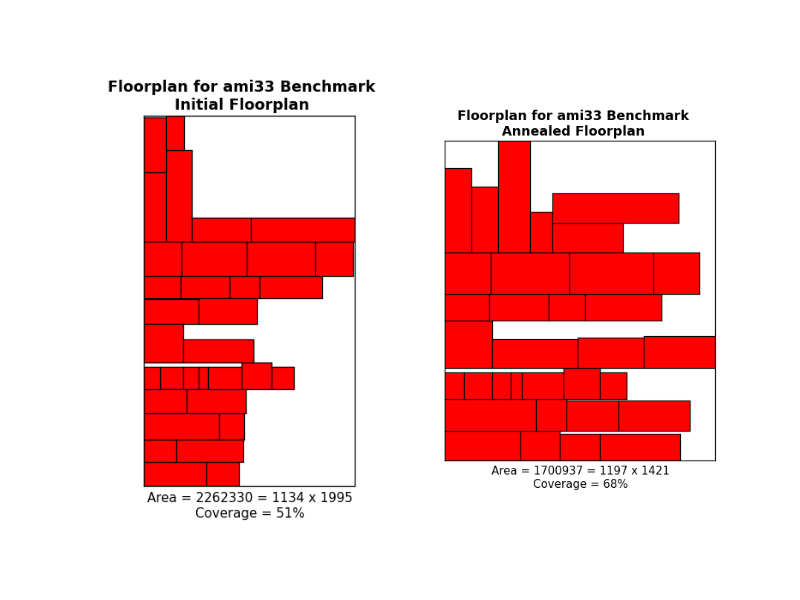
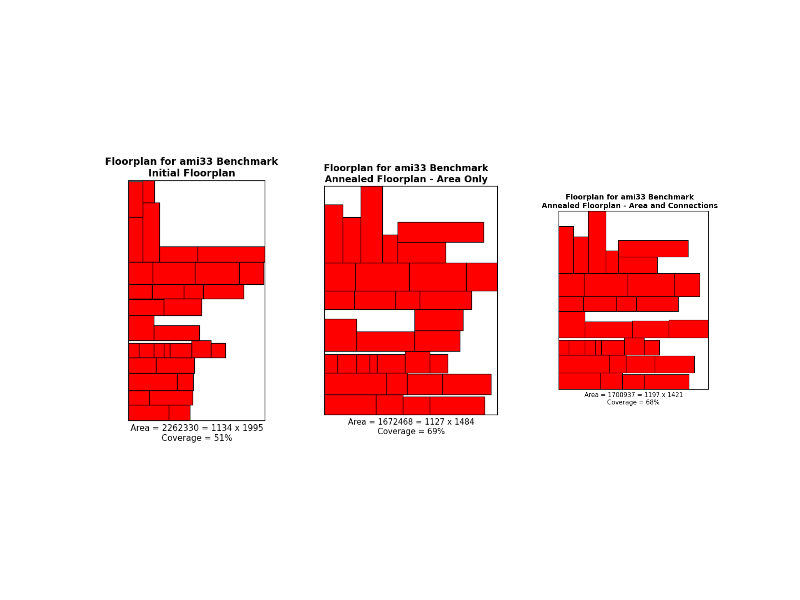
Final results for progress report.  Add white space data to nodes.

Changed region(s): [[0.125, 0.12, 0.9062, 0.87]]

diff --git a/metrics.py b/metrics.py
@@ -4,28 +4,25 @@ import utils
 
 
 # Finding midpoints of rectangles
-def findMid(rectangles):
+def findMid(rectangles,dictionary):
 	
-	t = 0
 	length = len(rectangles)
-	#c = len(rectangles)
 	
 	matrix_dist = np.zeros((length,length))
+
 	for r in range(length):
-		#print('\n')
+		indexI = dictionary[rectangles[r].name]
 		midx1 = rectangles[r].x + rectangles[r].w/2
 		midy1 = rectangles[r].y + rectangles[r].h/2
-		#print (midx1,midy1)
+
 		for c in range(length):
+			indexJ = dictionary[rectangles[c].name]
 			midx2 = rectangles[c].x + rectangles[c].w/2
 			midy2 = rectangles[c].y + rectangles[c].h/2
-			t+=1
-			#print(midx2,midy2)
-			matrix_dist[r][c] = abs(midx2 - midx1) + abs(midy2-midy1)	
-			#print (matrix_dist[r][c]),
-	#print('\n')
-	#print(t)
-	return (matrix_dist)
+
+			matrix_dist[indexI][indexJ] = abs(midx2 - midx1) + abs(midy2-midy1)	
+
+	return matrix_dist
 
 	
 	
@@ -89,34 +86,31 @@ def getAreaRectangle(rectangleName): # rectangle name to rectangle area, need to
 
 ################################################################################
 def costWithLamdas(rectangles, costParameters):
-	dist_matrix = (findMid(rectangles))
-	#print(dist_matrix)
-
 	sum_of_areas = (getCoverage(rectangles)) # sum of areas of individual rectangles
-	#print(sum_of_areas)
-	
 	total_area = (getAreaFloorplan(rectangles)) # total area of floorplan
-	#print(total_area)
 	
 	matrix = costParameters.lamda # connection matrix 
 	k = costParameters.k
 	alpha = costParameters.alpha
-	dist_matrix = (findMid(rectangles)) # wirelength matrix
-	leng = len(dist_matrix)
-	matrix_cost = np.zeros((leng,leng))
-	f = np.zeros((leng,leng))
-	cost_p2 = 0
-	
+	f = costParameters.f
+	dictionary = costParameters.dictionary
+	dist_matrix = (findMid(rectangles,dictionary)) # wirelength matrix
+
+
+	leng = len(rectangles)
+	cost_p2 = 0.0
+	matrix_cost = np.multiply(matrix,dist_matrix)
+
+	#print(dist_matrix)
+
 	for i in range(leng):
-		for j in range(leng):
+		for j in xrange(i+1,leng,1):  # Avoid duplicating costs
 			#f[i][j] = 1
-			matrix_cost[i][j]=(matrix[i][j]*dist_matrix[i][j])
-			cost_p2 += matrix_cost[i][j]
-	# Compute area based on new matrix
-	covered_area = (total_area - sum_of_areas)
-	whitespace = (sum_of_areas/total_area) *100
-	#print(whitespace)
-	cost = (alpha * total_area) *(1 - alpha)* cost_p2
+			#matrix_cost[i,j]=matrix[i,j]*dist_matrix[i,j]*1.0
+			cost_p2 += (matrix_cost[i,j]) ** k
+
+	# Compute cost based on new matrix
+	cost = (alpha * total_area) + (1 - alpha)* cost_p2
 	return cost
 ################################################################################
 	

diff --git a/progressReportUpdate.py b/progressReportUpdate.py
@@ -5,30 +5,33 @@ import alignImages
 import classes
 import utils
 import numpy as np
+from copy import copy, deepcopy
 
 annealingParameters = classes.AnnealingParameters(100,.85,5,.05,1,1)
 
 
 def analyzeAllBenchmarks():
 	for dataset in utils.benchmarks:
-		(root, rectangles, dictionary, matrix) = initializeMatchPairs(dataset)
+		# Initial Floorplan
+		(root, rectangles, dictionary, matrix) = initializeMatchPairs(dataset) 
 
+		# Anneal - Consider area only
+		anneal(dataset, annealingParameters,metrics.costArea,"Output/annealing_",'Annealed Floorplan - Area Only')  
+
+		# Anneal - Consider area and connections
 		length = len(rectangles)
-		costParameters = classes.CostParameters(np.ones((length,length)),0.5,2,matrix)
+		lambdas = copy(matrix)
+		costParameters = classes.CostParameters(np.ones((length,length)),0.5,1,lambdas,dictionary)
 
 		# Curry cost function
 		def newCost(inRoot):
 			#return metrics.costWithLamdas(rectangles, costParameters)
 			return metrics.costWithLamdasFromRoot(inRoot, costParameters)
 
-		print(metrics.costWithLamdas(rectangles,costParameters))
-		print(newCost(root))
-		#print("Length of root rectangles = " + str(len(utils.getRectanglesFromRoot(root))))
-		#return
 
-		anneal(dataset, annealingParameters,newCost)
+		anneal(dataset, annealingParameters,newCost,"Output/annealingNewCost_",'Annealed Floorplan - Area and Connections')
 
-		alignImages.createImages('Output/initialMatchPairs_','Output/annealing_','Output/Comparison of Initial to Annealed (new cost)_')
+	alignImages.createImages('Output/initialMatchPairs_','Output/annealing_','Output/annealingNewCost_','Output/Comparison of Initial to Annealed (Area and All)_')
 
 
 

diff --git a/alignImages.py b/alignImages.py
@@ -6,9 +6,9 @@ import utils
 
 prefix1 = 'Output/initialMatchPairs_'
 prefix2 = 'Output/annealing_'
+prefix2 = 'Output/annealingNewCost_'
 
-
-def createImages(prefix1,prefix2,outDescription):
+def createImages(prefix1,prefix2,prefix3,outDescription):
 	suffix = '.png'
 	length = len(utils.benchmarks)
 	images = []
@@ -18,15 +18,20 @@ def createImages(prefix1,prefix2,outDescription):
 
 		img1 = mpimg.imread(prefix1+dataset+suffix)
 		img2 = mpimg.imread(prefix2+dataset+suffix)
+		img3 = mpimg.imread(prefix3+dataset+suffix)
 
 		fig = plt.figure(i)
-		plt.subplot(1, 2,1)
+		plt.subplot(1, 3,1)
 		imgplot1 = plt.imshow(img1)
 		plt.axis('off')
 
 		#plt.subplot(1, 2,2*i+2)
-		plt.subplot(1, 2,2)
+		plt.subplot(1, 3,2)
 		imgplot2 = plt.imshow(img2)
+		plt.axis('off')
+
+		plt.subplot(1, 3,3)
+		imgplot2 = plt.imshow(img3)
 		plt.axis('off')
 
 		fig.savefig(outDescription + dataset + '.png',dpi=100)

diff --git a/classes.py b/classes.py
@@ -41,6 +41,8 @@ class RectNode:
 		self.parent = None
 		self.w = None
 		self.h = None
+		self.whiteAspect = 0
+		self.whiteLength = 0
 
 		if type=='rect':
 			self.w = self.rect.w
@@ -65,9 +67,13 @@ class RectNode:
 			if type=='|':
 				self.w = wL+wR
 				self.h = max(hL,hR)
+
 			if type=='-':
 				self.w = max(wL,wR)
 				self.h = hL+hR
+
+			self.whiteLength = max(self.w,self.h)
+			self.whiteAspect = self.whiteLength/min(self.w,self.h)
 
 	def getArea(self):
 		if self.w is not None and self.h is not None:
@@ -99,11 +105,12 @@ class CostParameters:
 	# f = parameter measuring frequency of communication between two modules i and j
 	# alpha = weight added to area
 
-	def __init__(self,f,alpha,k,lamda):
+	def __init__(self,f,alpha,k,lamda,dictionary):
 		self.lamda = lamda
 		self.f = f 
 		self.alpha = alpha
 		self.k = k
+		self.dictionary = dictionary
 		return 
 	
 

diff --git a/initializeMatchPairs.py b/initializeMatchPairs.py
@@ -151,23 +151,6 @@ def initializeMatchPairs(dataset):
 
 	pfp.printFloorplan(rectangles,dataset,"Output/initialMatchPairs_" + dataset + ".png",'Initial Floorplan')
 
-
-	def printRect(rect):
-		print(rect)
-		print(rectangles[dictionary[rect]].x)
-		print(rectangles[dictionary[rect]].y)
-		print(rectangles[dictionary[rect]].w)
-		print(rectangles[dictionary[rect]].h)
-
-	#printRect('bk10b')
-	#printRect('bk9b')
-
-	def printRectDetailsTest():
-		print(dataset)
-		for r in rectangles:
-			r.printRect()
-	#rectDetailsTest()
-
 	return (root, rectangles, dictionary, matrix)
 
 
@@ -175,6 +158,6 @@ def initializeMatchPairs(dataset):
 def analyzeAllBenchmarks():
 	for dataset in utils.benchmarks:
 		initializeMatchPairs(dataset)
-analyzeAllBenchmarks()
+#analyzeAllBenchmarks()
 
 #initializeMatchPairs(utils.benchmarks[0])

diff --git a/annealer.py b/annealer.py
@@ -41,7 +41,7 @@ def updateSolution(root,rectangles,dictionary):
 	return newRoot;
 
 
-def anneal(dataset, annealingParameters, cost):
+def anneal(dataset, annealingParameters, cost, outputPrefix,scenario):
 	# Solutions will be represented by roots to a slicing tree
 
 	# Setup
@@ -109,7 +109,7 @@ def anneal(dataset, annealingParameters, cost):
 	constructNewRectangleMatrix(bestSolution)
 
 	print("Total area for " + dataset + " = " + str(bestSolution.w*bestSolution.h))
-	pfp.printFloorplan(newRectangles,dataset,'Output/annealing_' + dataset + '.png','Annealed Floorplan')
+	pfp.printFloorplan(newRectangles,dataset,outputPrefix + dataset + '.png',scenario)
 
 	return (bestSolution, rectangles, dictionary, matrix)
 
